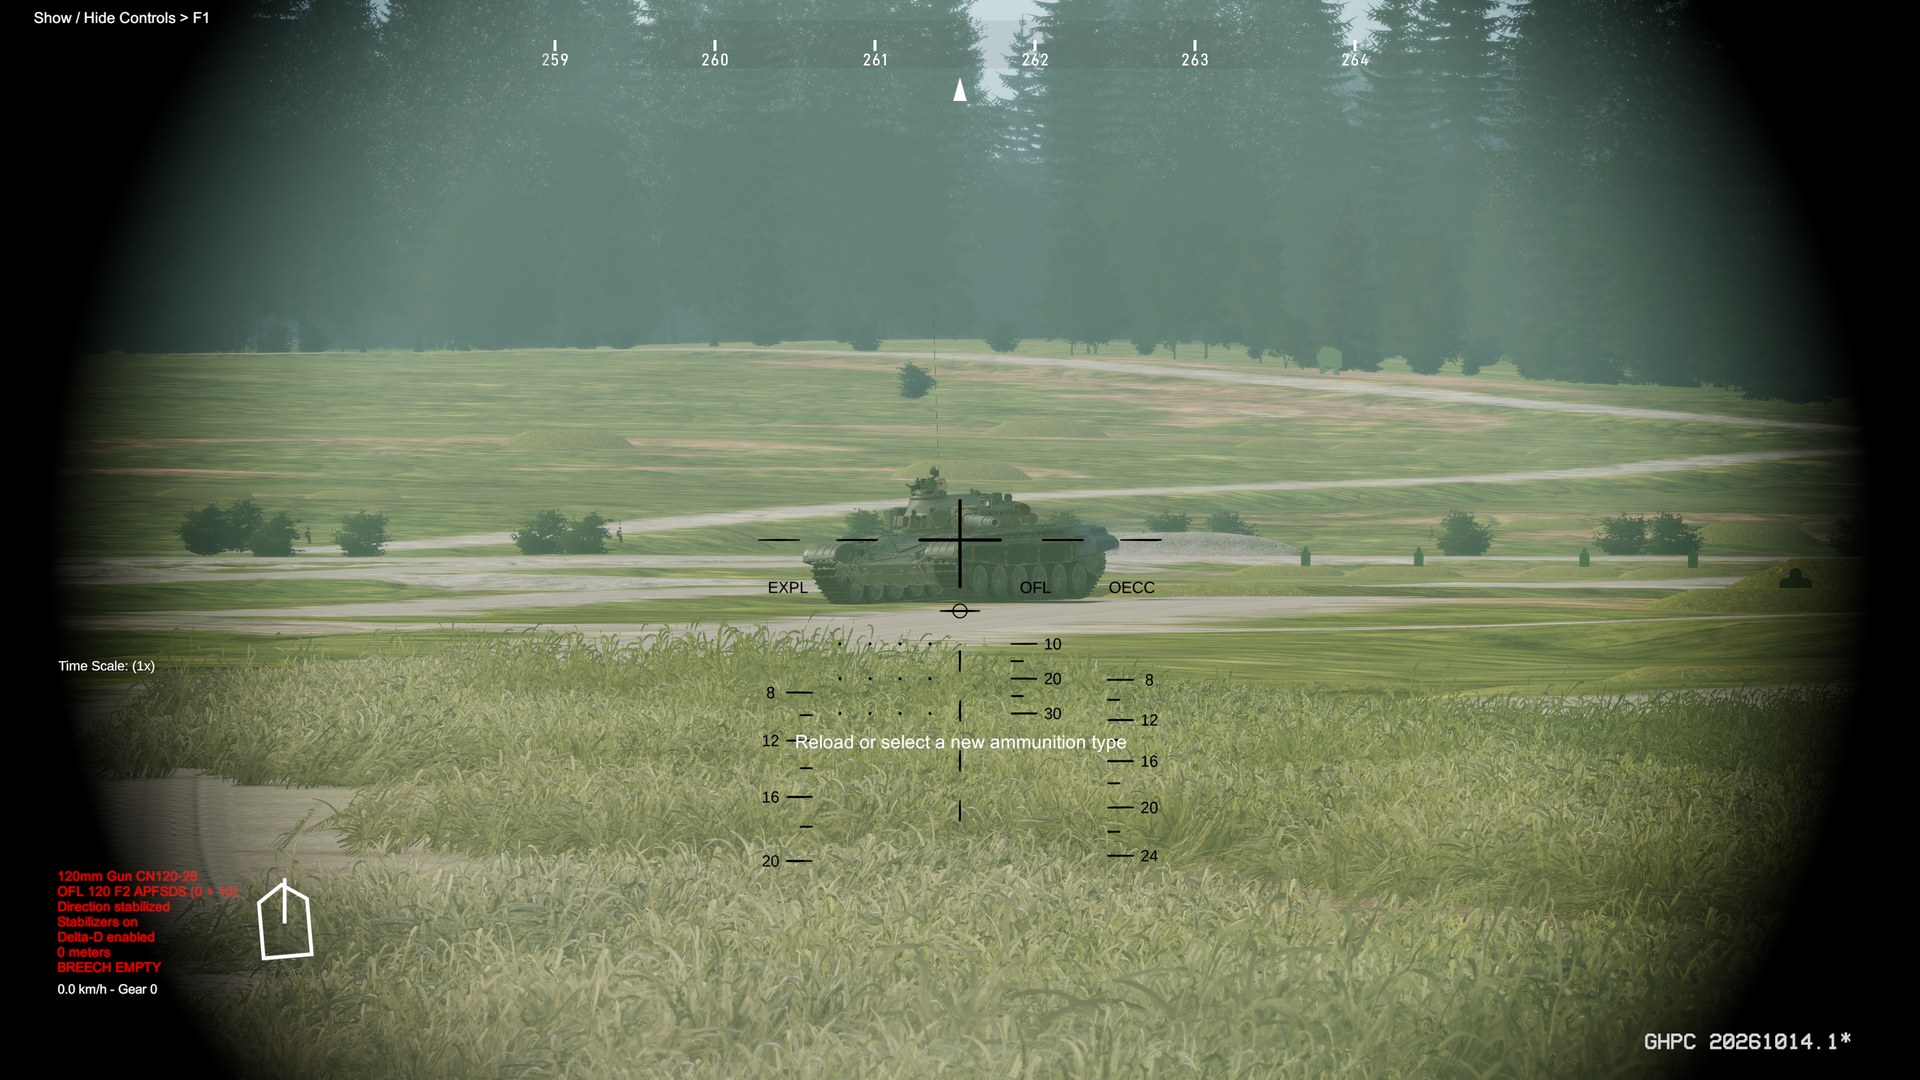
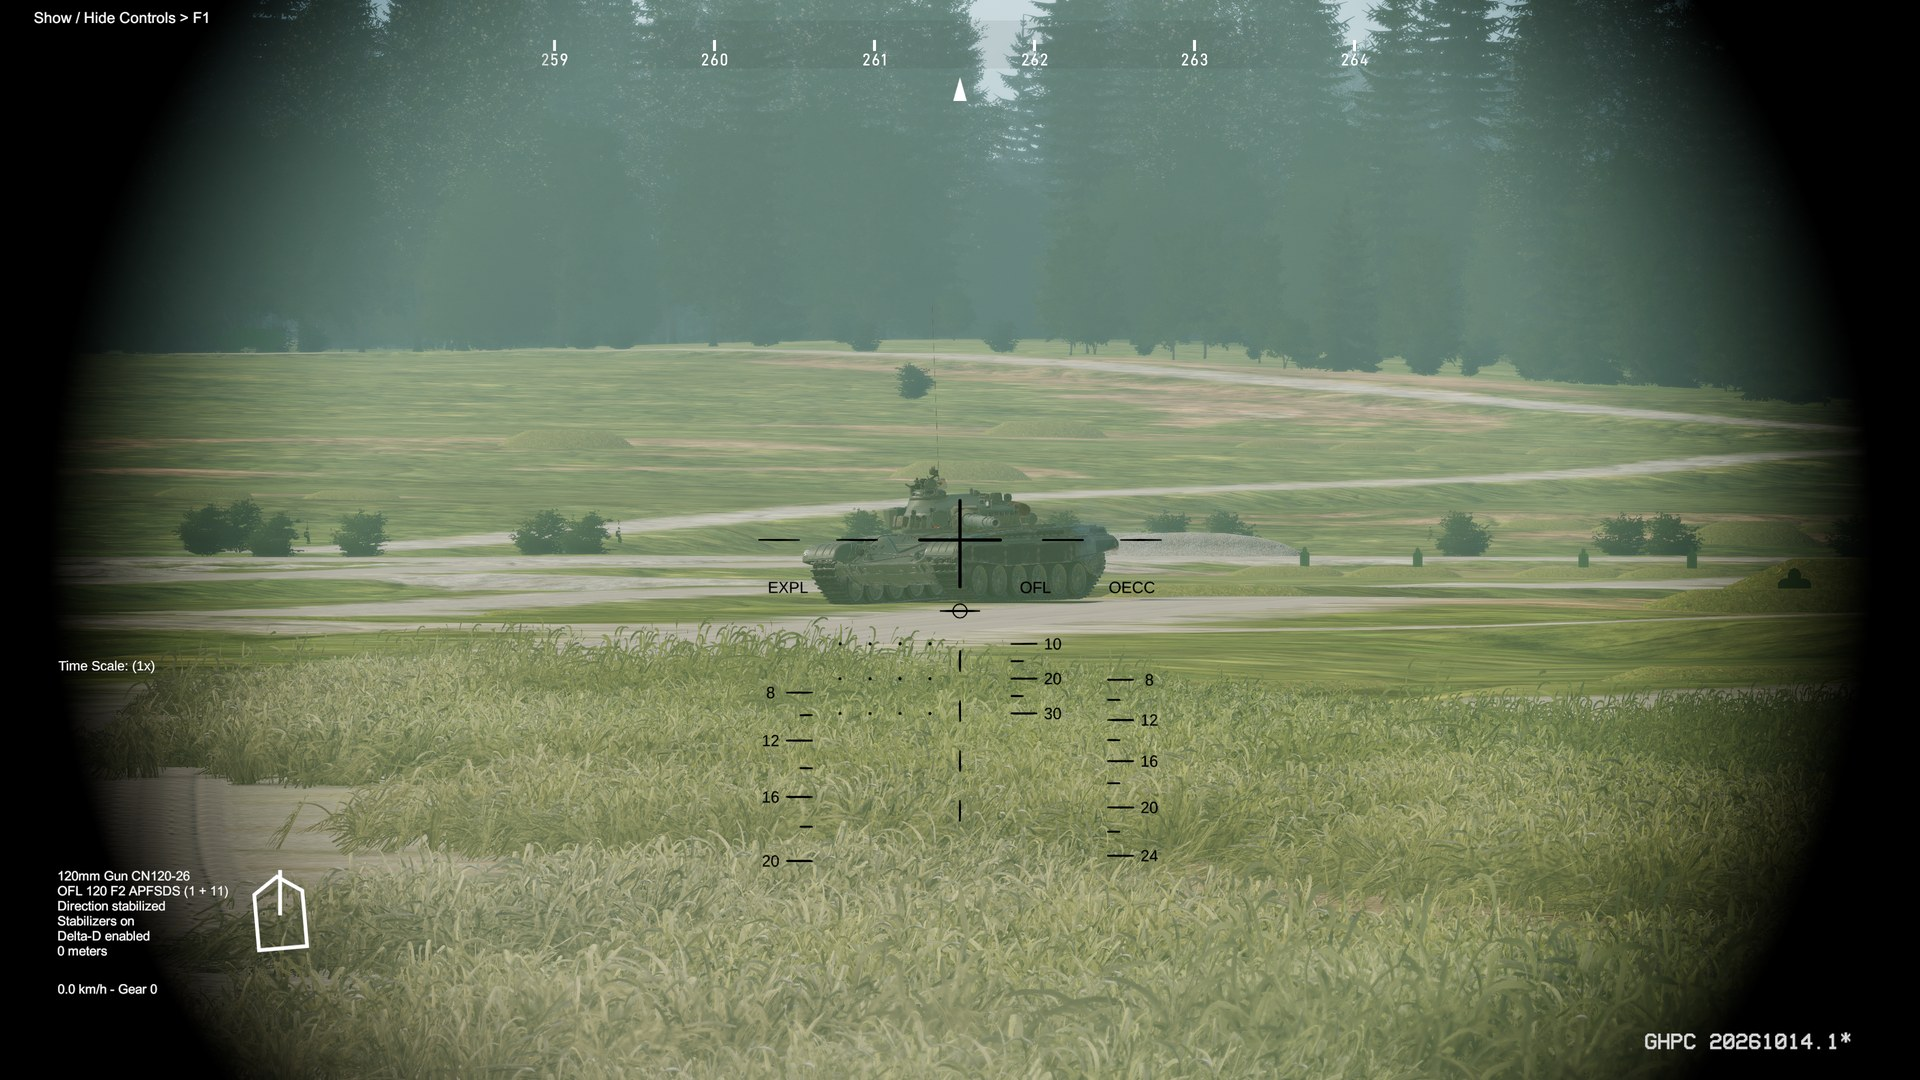
Fixed a few things in the README, added issue forms
The README had the commander's HL 120 down as a working sight, it isn't yet, only the secours view uses it. The T-90A figures in the comparison are now the ones from its own README, and I took out a couple of lines I couldn't back up.

- New gunner's day and Iris pictures, the old day one showed the gun empty.
- Bug report, realism and suggestion forms for issues.

diff --git a/README.md b/README.md
@@ -47,8 +47,6 @@ To remove it, delete `Mods\LeclercSXXI.dll` and the `Mods\LeclercSXXI` folder.
 - **The 12.7 mm M2HB coax** and **14 GALIX tubes**.
 - **The V8X diesel**, 1500 hp, 72 km/h forward and 40 km/h in reverse.
 
-AI Leclercs use the autoloader, the sights and the ammo the same way you do.
-
 ## A bit of history
 
 The SXXI (Série XXI, also called the third series) is the last batch of Leclercs built for the French Army, tranches
@@ -59,23 +57,24 @@ the tranche 11 standard from 2007.
 
 The tank in this mod is an SXXI as it served before the XLR upgrade, in the three-tone Centre-Europe camouflage.
 
-## The Leclerc next to the game's own tanks
+## The Leclerc next to the game's tanks and my T-90A
 
 GHPC's newest NATO tanks are the Leopard 2A3 and the M1IP, both 20 years older than an SXXI, so it's stronger than both,
 as it should be. Against my T-90A it's a fair match: neither gets through the other's turret front.
 
 | | Leopard 2A3 (vanilla) | M1IP (vanilla) | **Leclerc SXXI (this mod)** | [T-90A](https://github.com/marsattackk/GHPC-T90A) (my mod) |
 |---|---|---|---|---|
-| Turret front (vs APFSDS / HEAT) | 403 / 771 | 516 / 999 | **700 / 1100** | 693 / 822, plus Kontakt-5 |
-| Upper glacis (vs APFSDS / HEAT) | 317 / 661 | 348 / 361 | **500 / 800** | 549 / 749 |
-| Best dart | DM23, 520 mm | M833, 480 mm | **OFL 120 F2, 800 mm** | 3BM60, 693 mm |
-| Reload | loader | loader | **6 s, 8 s on a type change** | about 7 s |
-| Rounds | 42 | 55 | **40** (22 ready) | 43 |
+| Turret front (vs APFSDS / HEAT) | 403 / 771 | 516 / 999 | **700 / 1100** | 690 / 819, plus Kontakt-5 (about +140 / +550) |
+| Upper glacis (vs APFSDS / HEAT) | 317 / 661 | 348 / 361 | **500 / 800** | 549 / 748 |
+| Best dart | DM23, 520 mm | M833, 480 mm | **OFL 120 F2, 800 mm** | 3BM60, about 690 mm |
+| Reload | loader | loader | **6 s, 8 s on a type change** | 6.5 s |
+| Rounds | 42 | 55 | **40** (22 ready) | 42 (22 ready) |
 | Mass, power | 55.3 t, 1400 hp | 55.3 t, 1519 hp | **57.7 t, 1500 hp** | 46.5 t, 1000 hp |
-| Top speed, reverse | 75 / 40 km/h | 72 / 40 km/h | **72 / 40 km/h** | 60 / 4 km/h |
+| Top speed, reverse | 75 / 40 km/h | 72 / 40 km/h | **72 / 40 km/h** | 60 / 4.2 km/h |
 
-The right cheek is a lot stronger than the left (about 1150 / 1780), because it has a second pack beside the gunner.
-The weak spot from the front is the seam round the gunner's sight block.
+The armour figures are what a round meets coming straight from the front. The Leclerc's 700 / 1100 is its left cheek,
+the right one is a lot stronger (about 1150 / 1780) because it has a second pack beside the gunner. The weak spot from
+the front is the seam round the gunner's sight block.
 
 ## "It's a War Thunder model, does it even work in GHPC?"
 
@@ -86,16 +85,16 @@ happens when a round hits, was built for GHPC with GHPC's own rules.
 <details>
 <summary><b>How it's built for GHPC</b></summary>
 
-- **The armour values are mine, not War Thunder's.** The front packs are set to what the SXXI was designed to stop,
-  the rest from French sources or, where nothing was published, the closest real equivalent, marked as a guess in my
-  notes.
-- **It's built on the vanilla T-80B** for the running gear and the hull's insides, the same way my other tanks are. The
-  sights, the gun, the rounds, the engine sound and the crew voices come from the game's Leopard 2 and Abrams, a NATO
-  tank gets NATO parts.
+- **The armour values are mine, not War Thunder's.** The front packs are set to what the SXXI was designed to stop.
+  The rest are my estimates from French sources and tanks of the same period, marked as guesses in my notes.
+- **It's built on the vanilla T-80B**, like my T-80UM2: its running gear, hull internals and the gun and sight systems
+  underneath, with the Leclerc's values and looks on top. Where you see or hear it, a NATO tank gets NATO parts: the
+  rounds are the game's Leopard 2 rounds reshaped and repainted, the gun sound and the engine are the Leopard 2's (with
+  a turbine whine under the diesel), the gunner's reticle is the M1 / Leopard 2 one and the crew talk like Americans.
 - **The inside works like a vanilla tank.** Crew, the bustle rack, the hull drum and the fuel tanks sit where they are in
-  a Leclerc. Engine, transmission, cooling, the breech, both drives, the power system, the fire control, both sights and
-  the rammer are damageable modules wired into the game's own systems, so knocking one out does what it does on a
-  vanilla tank.
+  a Leclerc. Engine, transmission, cooling, the breech, both drives, the power system, the fire control, the HL 130,
+  the HL 120 head and the rammer are damageable modules wired into the game's own systems, so knocking one out does what
+  it does on a vanilla tank.
 - **The bustle is its own compartment.** A hit that sets the rack off blows the two roof panels and the crew in front
   of the bulkhead lives.
 
@@ -106,8 +105,8 @@ happens when a round hits, was built for GHPC with GHPC's own rules.
   <img src="docs/images/xray_top.jpg" width="49%" alt="Hit x-ray from above: crew, ammo and modules">
 </p>
 
-*Left: the turret, the HL 130 windows in front of the gunner's hatch and the HL 120 head on the commander's side. Right:
-the hit x-ray from above.*
+*Left: the turret front from the commander's side, the HL 120 head on top. Right: the hit x-ray from above, the crew
+light blue, the 22-round bustle rack at the back of the turret.*
 
 ## The autoloader
 
@@ -132,8 +131,8 @@ waits while the gun loads and then carries on.
 - **HL 120 secours**: the commander's HL 120 head slaved to the gun with an emergency reticle, one range scale per
   round, no laser and no computer, you set the range. It's in the gunner's view cycle, and it's where you end up when
   the HL 130 gets knocked out. The real tank has no backup gunner's sight, the commander takes over through his.
-- **The commander** uses the game's usual commander views for now. The HL 120 head is on the turret and can be knocked
-  out, but it isn't a sight of its own yet, apart from the secours view.
+- **The commander** has the free-look view and night-vision goggles for now, like the game's Leopard and Abrams. The
+  HL 120 head is on the turret and can be knocked out, but it isn't a sight of its own yet, apart from the secours view.
 
 <p align="center">
   <img src="docs/images/sight_hl120_secours.jpg" width="49%" alt="HL 120 secours emergency reticle">
@@ -150,7 +149,7 @@ it and the GALIX tubes along the side.*
 | OFL 120 F2 | APFSDS (default) | 1740 m/s | about 800 mm |
 | OFL 120 F1 | APFSDS | 1790 m/s | about 700 mm |
 | OECC 120 F1 | HEAT-MP | 1100 m/s | 560 mm |
-| 120 EXPL F1 | HE | 1050 m/s | 3.5 kg of explosive |
+| 120 EXPL F1 | HE | 1050 m/s | 3.5 kg of TNT equivalent |
 
 18 darts, 14 HEAT and 8 HE. The mission's ammo menu picks which dart you carry. The EXPL's fuze is in the vehicle menu
 ("120 EXPL F1 fuze"): impact, or a burst about 3 m over the lased range, set when the round loads.
@@ -175,7 +174,9 @@ The coax is a 12.7 mm M2HB with 950 rounds in belts of 140.
 - **The round mix**, 18 / 14 / 8. Nobody publishes it.
 - **The gunner's reticle**: the game's M1 / Leopard 2 one, I haven't found a picture of the HL 130's. The secours
   reticle is my own layout from a description.
-- **The x20 thermal field**, the laser's range, the glacis value, the skirts, the welded plates and the mantlet.
+- **The x20 thermal field**, the laser's range, the glacis value, the skirts, the welded plates and the plates round the
+  gun.
+- **The EXPL's explosive**: 3 kg of Comp B worked up to TNT the way the game does it for its own rounds.
 - **The conveyor's cells, door and rammer timings**, from photos, and the restock time.
 - **The inside**: where the modules, fuel tanks and bulkhead go.
 
@@ -183,9 +184,8 @@ If you've got a real source on any of that, I'd genuinely love to see it.
 
 ## Known limits
 
-- The game has no French army, so the crew and voices are the US Army's.
+- The game has no French army, so it fights on the US side with American voices.
 - The commander's HL 120 isn't a working sight of its own yet, only the secours view uses it.
-- The driver has no view of his own.
 - All 14 GALIX tubes fire in one volley, and GHPC has no smoke restock, so you get one screen per tank.
 
 ## Bugs and suggestions
@@ -223,7 +223,7 @@ Layout: `LeclercSXXI\` the mod, `Common\` the helpers it's built with, `Resource
 
 The 3D model, its textures and the shapes of its armour plates are War Thunder's Leclerc SXXI, taken from War Thunder's
 game files. They belong to Gaijin Entertainment and they're not covered by this repository's license. Everything else
-(the armour values, the autoloader, the sights and their reticles, the fire control, the ammo, the interior) was built
-for GHPC, from French sources and, where those ran out, my own best guesses.
+(the armour values, the autoloader, the sights, the secours reticle, the ammo, the interior) was built for GHPC, from
+French sources and, where those ran out, my own best guesses.
 
 The source code in this repository is under the [GNU General Public License v3.0](LICENSE).
